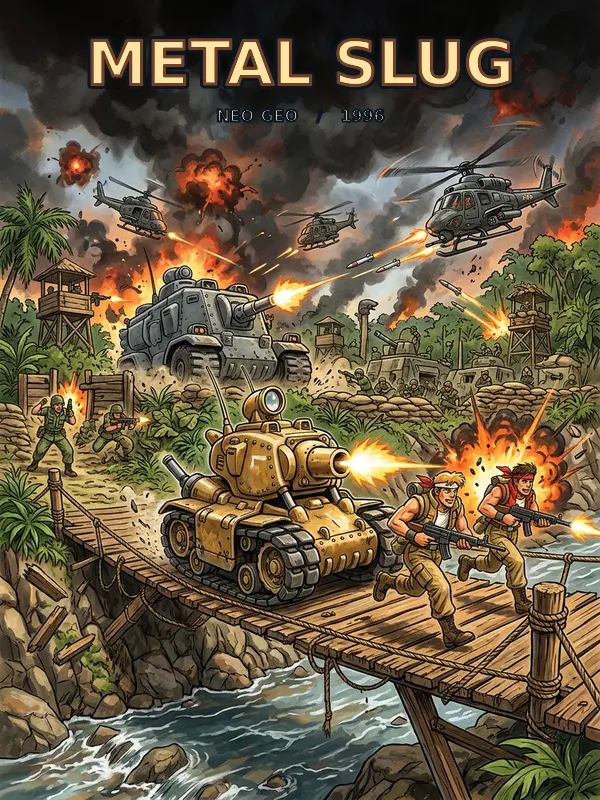
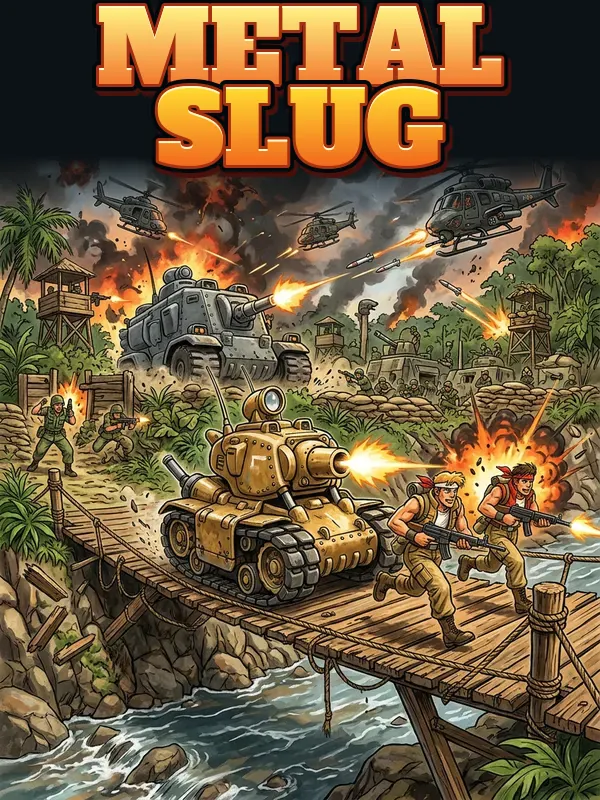
jeux : styliser les titres des sept affiches arcade

Changed region(s): [[0.0, 0.0, 1.0, 0.2812]]

diff --git a/game/README.md b/game/README.md
@@ -93,10 +93,15 @@ référencent les mêmes URL, tailles et empreintes SHA-256. Une validation de
 conversion et les contrôles Android ne remplacent pas un essai sur appareil.
 
 Les sept jeux du catalogue disposent chacun d'une affiche originale détaillée,
-portrait 3:4, dans `bannieres/`. Les URL des affiches portent une version tirée
-de leur empreinte SHA-256 afin que le cache d'images de l'application récupère
-la nouvelle illustration après une mise à jour, sans télécharger à nouveau les
-ROMs.
+portrait 3:4, dans `bannieres/`. Les titres ne sont plus composés avec une police
+sans-serif générique : Metal Slug reprend un lettrage arcade à empattements,
+doré et en relief, inspiré de ses logotypes ; Neo Bomberman emploie un lettrage
+BD orange, une inscription « NEO » métallisée et un motif de bombe. Ces titres
+sont des créations originales composées avec les polices libres Alfa Slab One,
+Bangers et Bungee (SIL Open Font License), sans réutiliser les logos officiels.
+Les URL des affiches portent une version tirée de leur empreinte SHA-256 afin
+que le cache d'images de l'application récupère la nouvelle illustration après
+une mise à jour, sans télécharger à nouveau les ROMs.
 
 ## Ajouter un jeu
 
